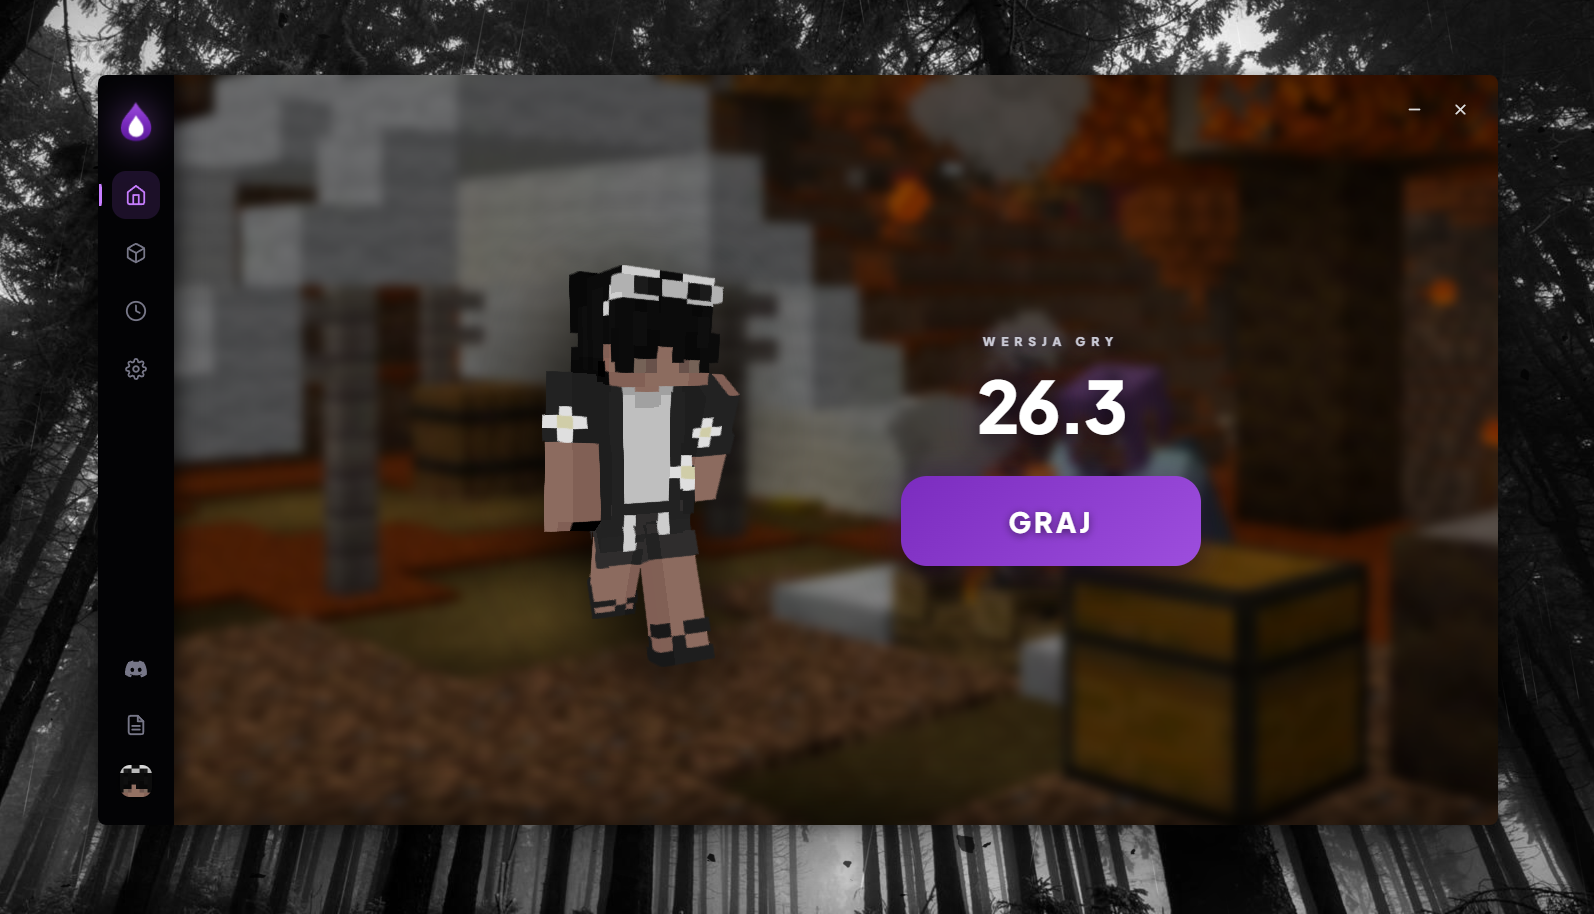
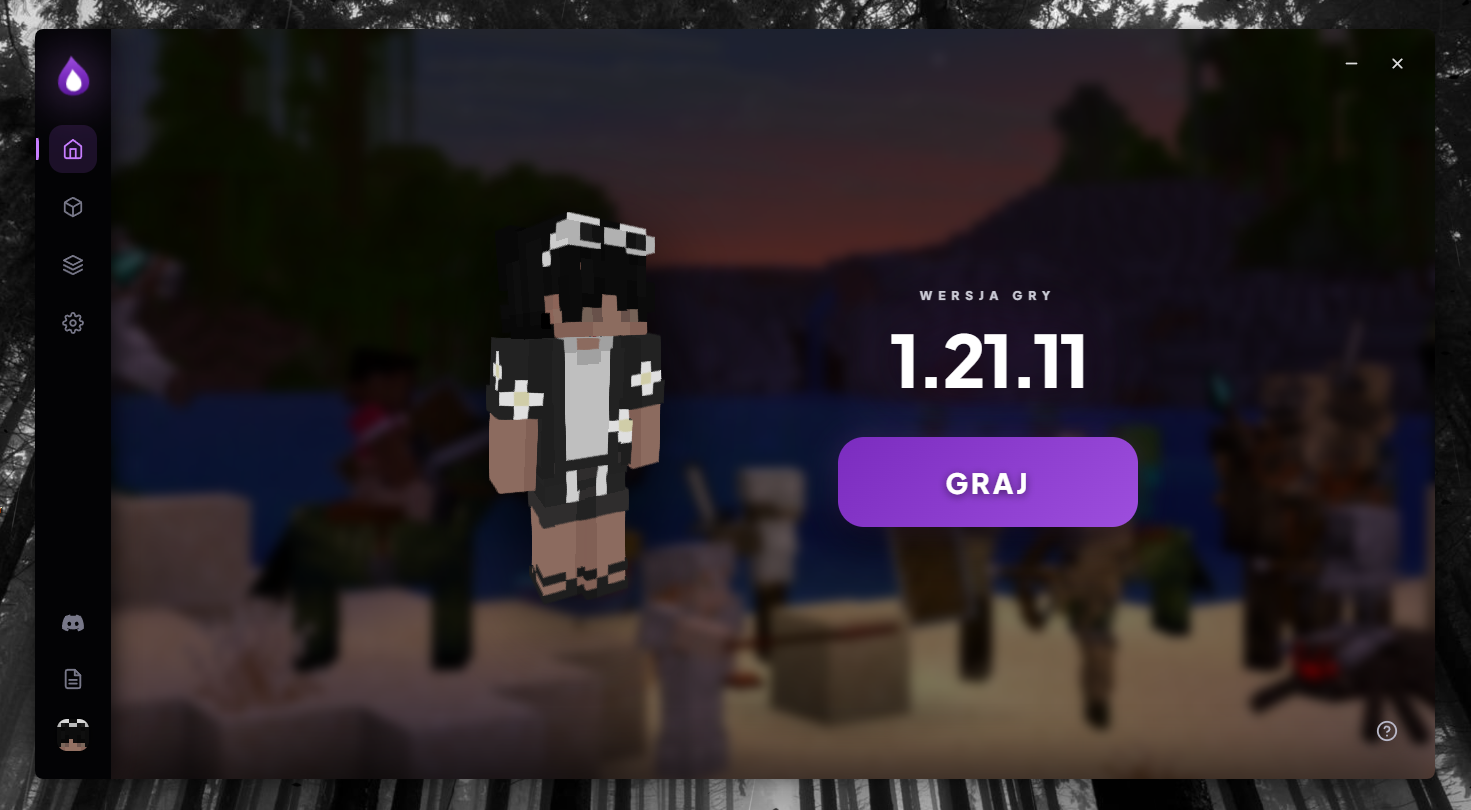
Aktualizacja 2.0.0

diff --git a/assets/nexus-system/changelog/2.0.0.md b/assets/nexus-system/changelog/2.0.0.md
@@ -1,0 +1,49 @@
+# Nexus Client — Wersja 2.0.0
+
+Z dumą prezentujemy oficjalną aktualizację Nexus Client 2.0.0! Wprowadziliśmy mnóstwo zmian w wyglądzie, poprawiliśmy uciążliwe błędy oraz dodaliśmy zupełnie nowe funkcje, które ułatwią Wam korzystanie z launchera.
+
+## Co nowego w wersji 2.0.0?
+
+### Odświeżony Interfejs i Wizualia
+
+* **Nowy wygląd:** Interfejs przeszedł gruntowny lifting — wszystko wygląda teraz nowocześniej i czysto.
+
+* **Płynniejsze animacje:** Dodaliśmy więcej animacji w całym launcherze, dzięki czemu korzystanie z niego jest bardziej dynamiczne.
+
+* **Dopracowane okna:** Poprawiliśmy wygląd i układ niektórych okienek aplikacji.
+
+* **Nowa animacja w panelu Nexus:** Panel demonstracyjny otrzymał nową animację.
+
+* **Ładniejszy Changelog:** Panel z listą zmian został przeprojektowany, aby czytanie o nowościach było przyjemniejsze.
+
+### Ulepszenia i Organizacja
+
+* **Przejrzystsze Ustawienia:** Całkowicie zreorganizowaliśmy sekcję ustawień — teraz łatwiej znajdziesz to, czego szukasz.
+
+* **Przejrzystsze Modyfikacje:** Zarządzanie modami stało się prostsze i bardziej intuicyjne.
+
+* **Strefa Poradników:** Dodaliśmy specjalną sekcję z poradnikami, które pomogą Ci w konfiguracji i rozwiązywaniu problemów.
+
+* **Easter Egg:** W launcherze ukryliśmy mały sekret... Czy uda Ci się go odnaleźć?
+
+## Naprawione Błędy i Poprawki
+
+* **Paczki Zasobów (Resource Packi):** Naprawiono problem z udostępnianiem paczek zasobów.
+
+* **Poprawki UI:** Wyeliminowaliśmy znane błędy graficzne i problemy z wyświetlaniem interfejsu.
+
+* **System Skinów:**
+
+  * Naprawiono błędy związane z ładowaniem skinów.
+
+  * Dla kont Offline dodaliśmy dedykowane, customowe skiny domyślne zamiast standardowego Steve'a i Alex.
+    *(Uwaga: Customowe skiny offline są widoczne w menu Nexus Clienta. Po wejściu do gry Minecraft postać będzie posiadać standardowego Steve'a lub Alex).*
+
+## Plany na przyszłość — Wersja 2.5.0
+
+Wiemy, jak ważna jest płynność działania launchera! W wersji 2.0.0 skupiliśmy się na wyglądzie i funkcjonalnościach, dlatego optymalizacja wydajności trafi do nadchodzącej aktualizacji 2.5.0.
+
+**Kiedy aktualizacja 2.5.0?**
+Prace już trwają! Aktualizacja pojawi się w najbliższych tygodniach (maksymalny czas oczekiwania to do 2 tygodni).
+
+*Dziękujemy za korzystanie z Nexus Client! Zgłaszajcie swoje uwagi i bawcie się dobrze!*
